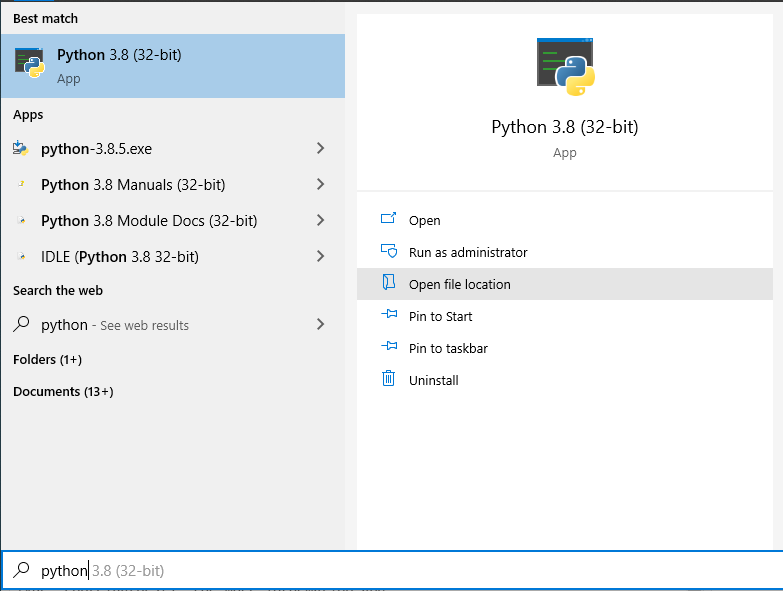
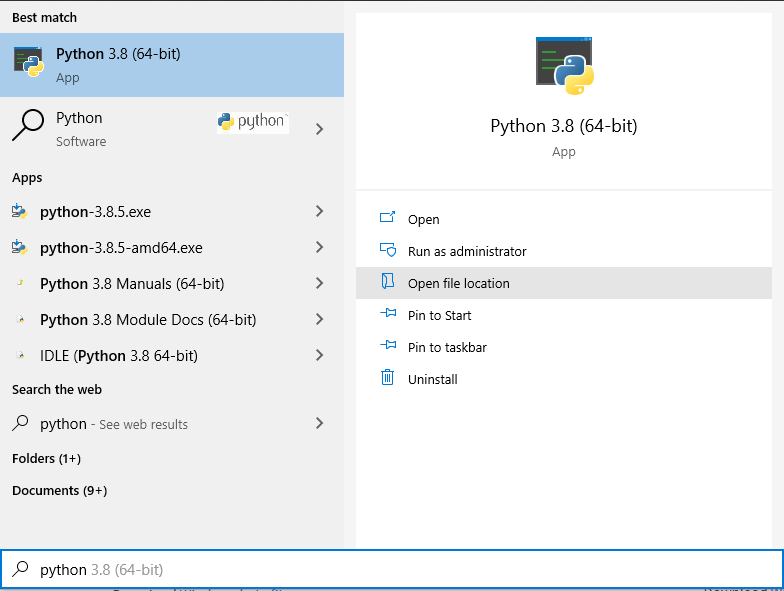
update instructions for python 64

diff --git a/exercises/e-windows-gitbash.md b/exercises/e-windows-gitbash.md
@@ -32,7 +32,7 @@ This will allow you to run `> make` from Git Bash within the `data-science-curri
 
 Installing Python is optional but *highly recommended*; this will create a set of exercises in `exercises_sequenced` that have a prefix `dXY-` for the *day* associated with that exercise (e.g. `d03-` means day 3 of the class).
 
-- Download and install [Python](https://www.python.org/downloads/) for Windows.
+- Download and install [Python](https://www.python.org/downloads/windows/) for Windows. Make sure to download a 64 bit version (you should see `x86-64` in the link).
 - Once installed, determine the `path` of your Python executable.
 
 1. Press the Windows key, type `python`, and click the "open file location" button.
